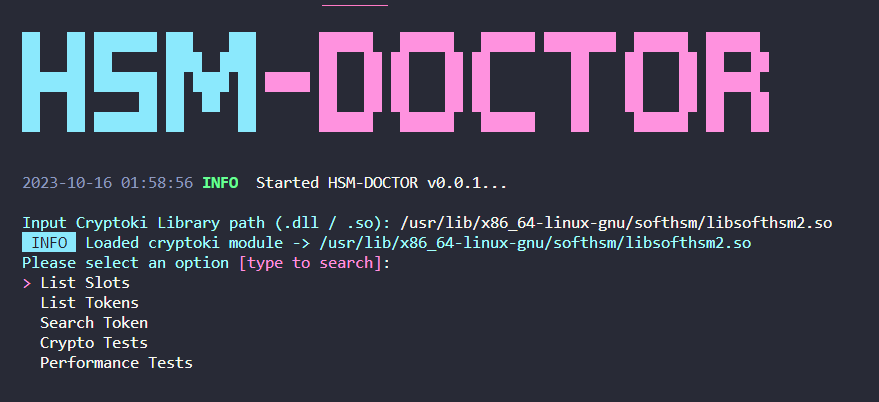
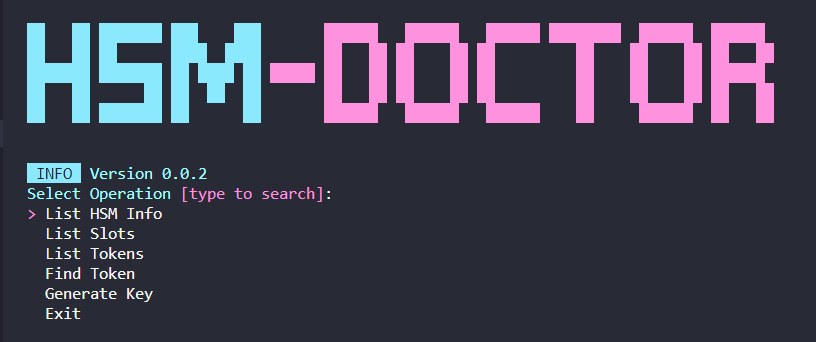
Readme update

Changed region(s): [[0.0, 0.0585, 0.9498, 0.3801], [0.0, 0.4386, 0.9498, 0.9357], [0.3676, 0.0, 0.4289, 0.0292]]

diff --git a/main.go b/main.go
@@ -31,7 +31,7 @@ func fatal(message string, args ...any) {
 func PrintTitle() {
 	pterm.Info.Println("\033[H\033[2J")
 	pterm.DefaultBigText.WithLetters(TitlePrefix, Title).Render()
-	pterm.Info.Println("Version 0.0.1")
+	pterm.Info.Println("Version 0.0.2")
 }
 
 func PressEnterToContinue() {

diff --git a/README.md b/README.md
@@ -15,8 +15,24 @@
   </p>
 </div>
 
-
 [![CLI Screenshot][screenshot]](https://crypto.francescogorini.com)
+
+
+### Functionality
+
+1. Print HSM and Token information
+
+2. List Slots and Tokens inside HSM
+
+3. Find Tokens/Keys
+
+4. Delete Tokens/Keys
+
+5. Export Tokens/Keys
+
+6. Generate Tokens/Keys
+
+
 
 <!-- LINKS -->
 [screenshot]: res/cli.png
